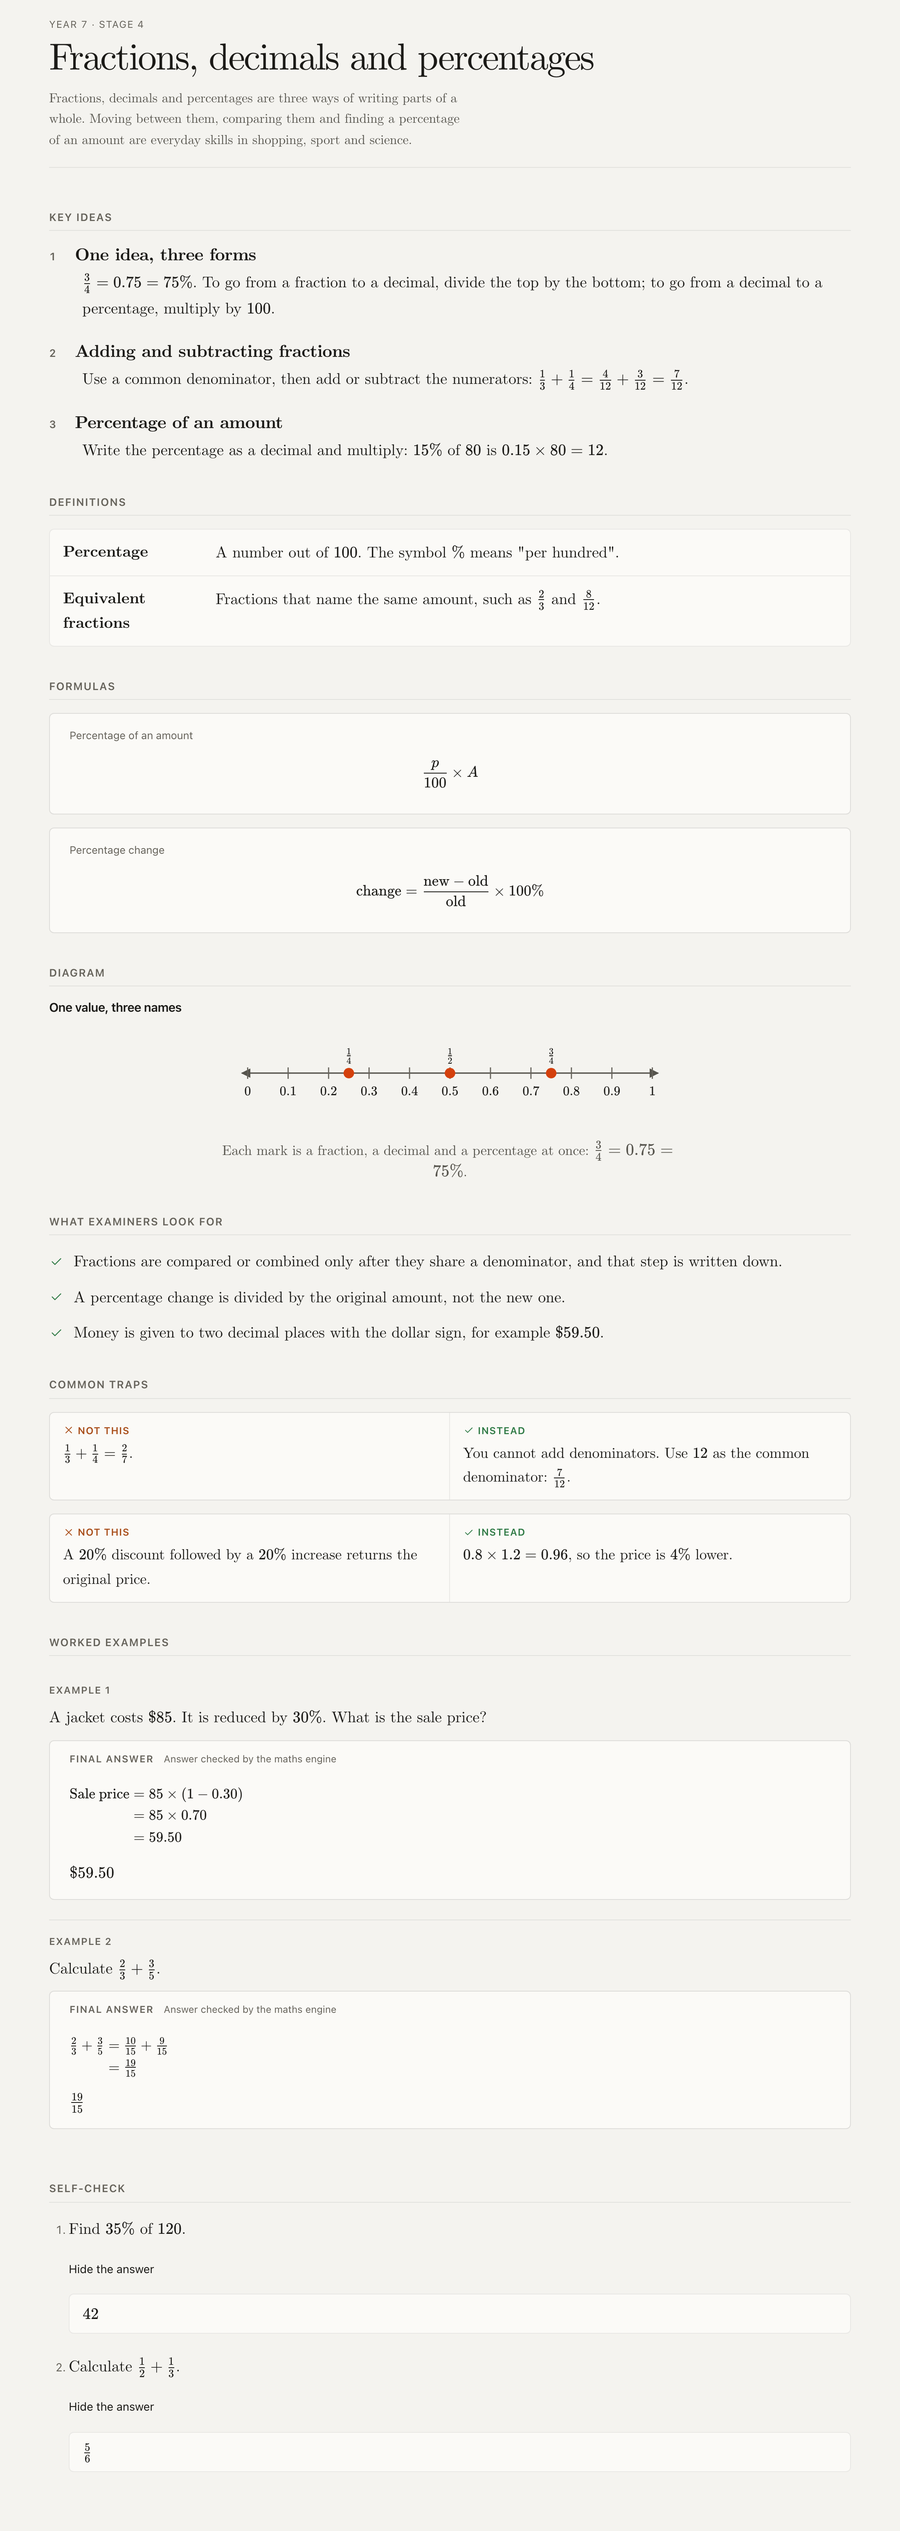
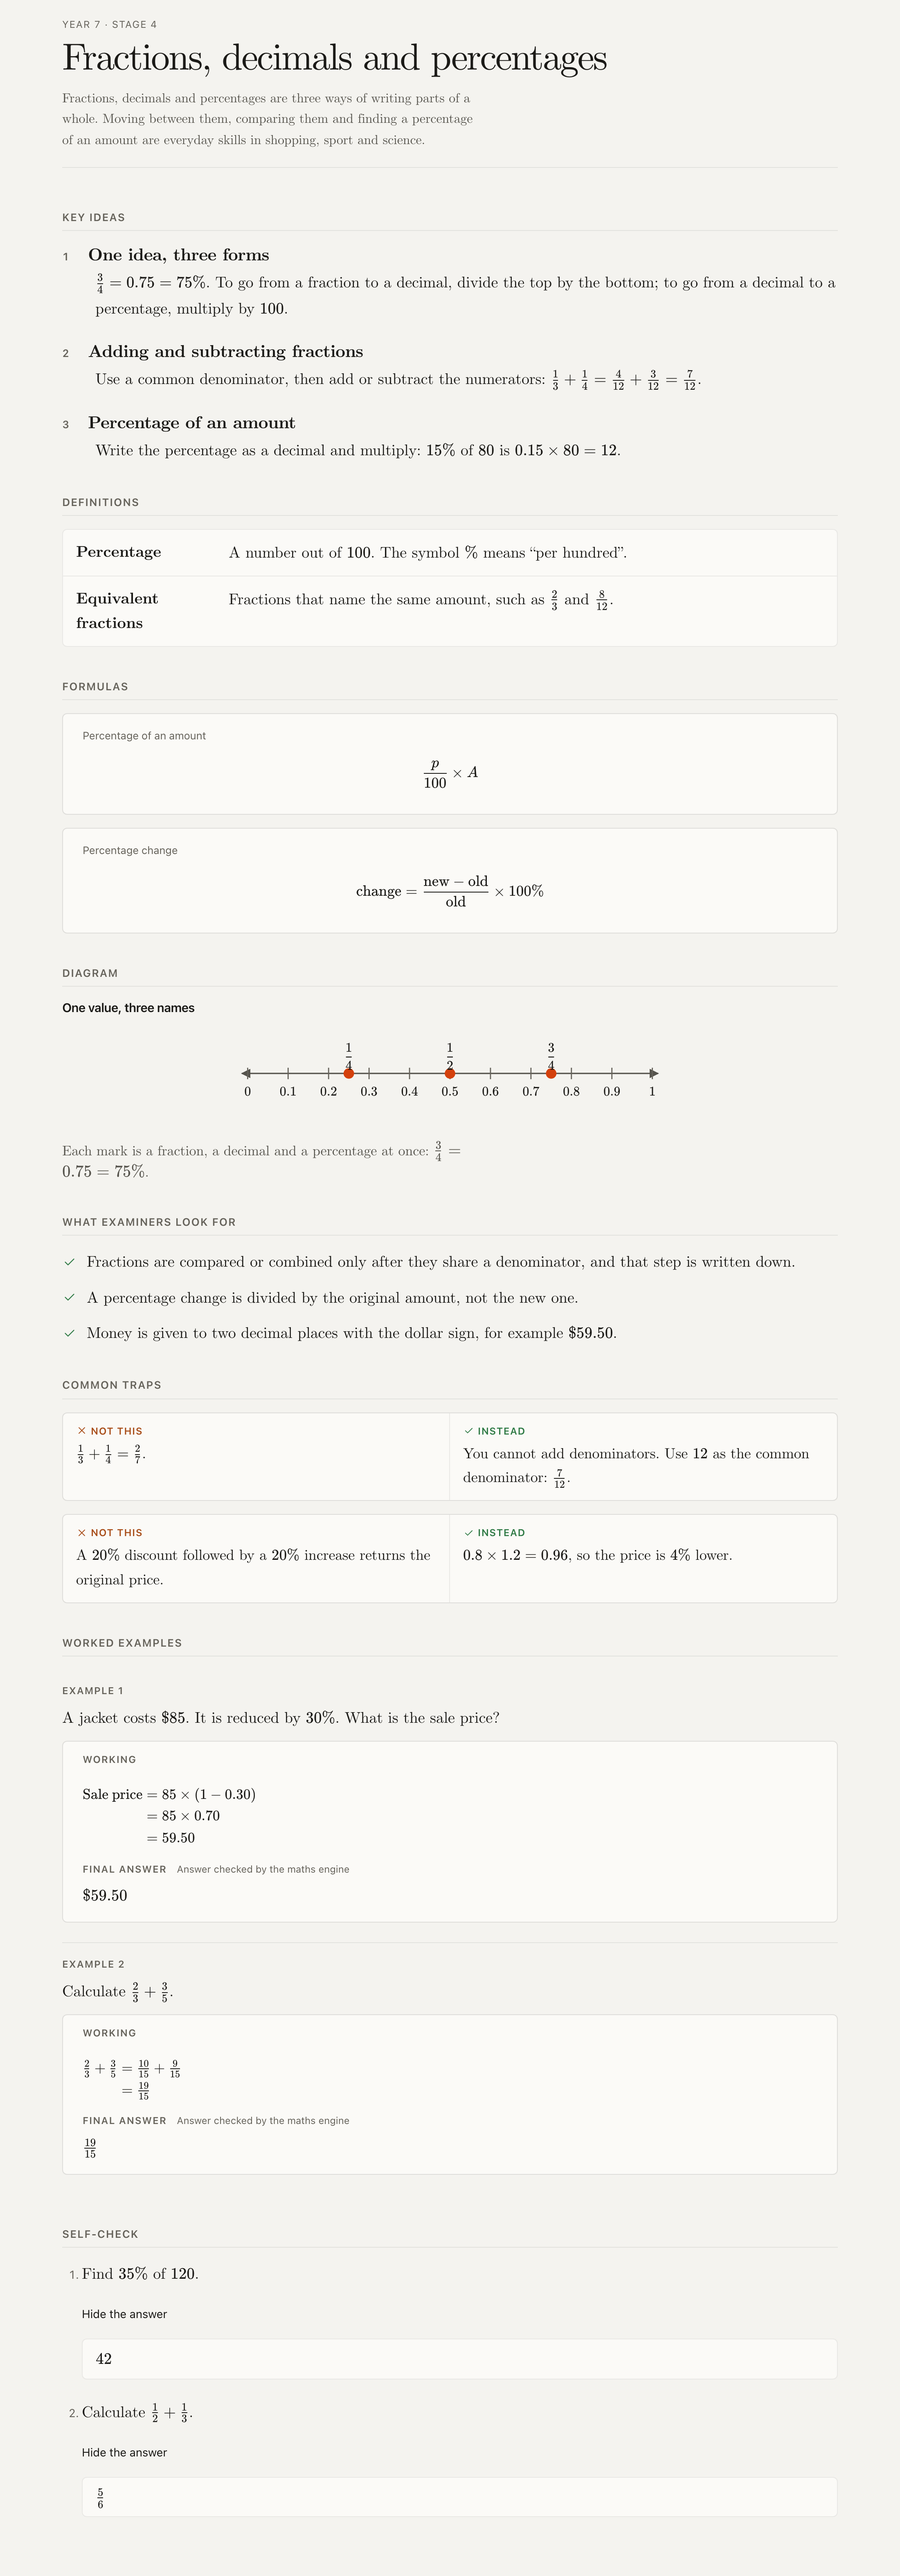
Notes review fixes: strict KaTeX in the content check, left-aligned diagram notes, larger fraction labels, Working versus Answer, gutters in the screenshots, curly quotes; regenerated screenshots

diff --git a/client/src/notes/nsw/notes-nsw-stage4-premium.js b/client/src/notes/nsw/notes-nsw-stage4-premium.js
@@ -34,7 +34,7 @@ export default {
       'Money is given to two decimal places with the dollar sign, for example $\\$59.50$.'
     ],
     diagrams: [
-      { title: 'One value, three names', spec: { kind: 'numberLine', min: 0, max: 1, points: [{ value: 0.25, label: '\\tfrac{1}{4}' }, { value: 0.5, label: '\\tfrac{1}{2}' }, { value: 0.75, label: '\\tfrac{3}{4}' }] }, note: 'Each mark is a fraction, a decimal and a percentage at once: $\\tfrac{3}{4}=0.75=75\\%$.' }
+      { title: 'One value, three names', spec: { kind: 'numberLine', min: 0, max: 1, points: [{ value: 0.25, label: '\\dfrac{1}{4}' }, { value: 0.5, label: '\\dfrac{1}{2}' }, { value: 0.75, label: '\\dfrac{3}{4}' }] }, note: 'Each mark is a fraction, a decimal and a percentage at once: $\\tfrac{3}{4}=0.75=75\\%$.' }
     ],
     working: [
       '\\begin{aligned}\\text{Sale price}&=85\\times(1-0.30)\\\\&=85\\times0.70\\\\&=59.50\\end{aligned}',

diff --git a/client/src/notes/nsw/nswNotes.css b/client/src/notes/nsw/nswNotes.css
@@ -48,7 +48,7 @@
 /* Diagrams */
 .nn-diagrams { display: grid; gap: var(--nn-s5); }
 .nn-diagram-t { font-family: var(--nn-ui); font-size: 15px; font-weight: 600; margin: 0 0 var(--nn-s1); }
-.nn-diagram-note { font-family: var(--nn-read); font-size: 17px; line-height: 1.5; color: var(--nt-ink-2); text-align: center; max-width: 560px; margin: var(--nn-s1) auto 0; }
+.nn-diagram-note { font-family: var(--nn-read); font-size: 17px; line-height: 1.5; color: var(--nt-ink-2); text-align: left; max-width: 64ch; margin: var(--nn-s2) 0 0; }
 
 /* What examiners look for */
 .nn-examiners { list-style: none; margin: 0; padding: 0; display: grid; gap: var(--nn-s3); }

diff --git a/client/test/support/nsw-notes-gallery.jsx b/client/test/support/nsw-notes-gallery.jsx
@@ -23,7 +23,7 @@ document.documentElement.setAttribute('data-theme', params.get('theme') === 'dar
 document.documentElement.style.colorScheme = params.get('theme') === 'dark' ? 'dark' : 'light';
 
 createRoot(document.getElementById('root')).render(
-  <article className="nt nt-article" data-nsw-notes data-topic={id}>
+  <article className="nt nt-article" style={{ padding: "8px 16px 72px" }} data-nsw-notes data-topic={id}>
     <header className="nt-ch-head">
       <p className="nt-eyebrow">Year {topic.years[0]} · Stage {topic.stage}</p>
       <h1 className="nt-title">{topic.name}</h1>

diff --git a/client/src/notes/nsw/NswParts.jsx b/client/src/notes/nsw/NswParts.jsx
@@ -132,8 +132,8 @@ export function WorkedExample({ ex, n }) {
         </div>
       ) : (
         <div className="nn-answer">
+          {ex.working && <><p className="nn-label">{t('notes.nsw.working')}</p><DisplayMath tex={ex.working} className="nn-working" /></>}
           <p className="nn-label">{t('notes.answer')} <span className="nn-checked">{t('notes.engineChecked')}</span></p>
-          {ex.working && <DisplayMath tex={ex.working} className="nn-working" />}
           <MathText block className="nn-read nn-final" text={ex.answer} />
         </div>
       )}

diff --git a/client/src/notes/nsw/notes-nsw-stage4.js b/client/src/notes/nsw/notes-nsw-stage4.js
@@ -59,7 +59,7 @@ export default {
       { title: 'Percentage of an amount', body: 'Write the percentage as a decimal and multiply: $15\\%$ of $80$ is $0.15\\times80=12$.' }
     ],
     definitions: [
-      { term: 'Percentage', meaning: 'A number out of $100$. The symbol $\\%$ means "per hundred".' },
+      { term: 'Percentage', meaning: 'A number out of $100$. The symbol $\\%$ means “per hundred”.' },
       { term: 'Equivalent fractions', meaning: 'Fractions that name the same amount, such as $\\tfrac{2}{3}$ and $\\tfrac{8}{12}$.' }
     ],
     formulas: [

diff --git a/client/src/i18n/strings.hi.js b/client/src/i18n/strings.hi.js
@@ -3737,4 +3737,5 @@ export default {
   'notes.nsw.sectionCheck': 'खुद जाँचें',
   'notes.nsw.showAnswer': 'उत्तर दिखाएँ',
   'notes.nsw.hideAnswer': 'उत्तर छिपाएँ',
+  'notes.nsw.working': 'हल',
 };

diff --git a/client/src/i18n/strings.en.js b/client/src/i18n/strings.en.js
@@ -3682,4 +3682,5 @@ export default {
   'notes.nsw.sectionCheck': 'Self-check',
   'notes.nsw.showAnswer': 'Show the answer',
   'notes.nsw.hideAnswer': 'Hide the answer',
+  'notes.nsw.working': 'Working',
 };
